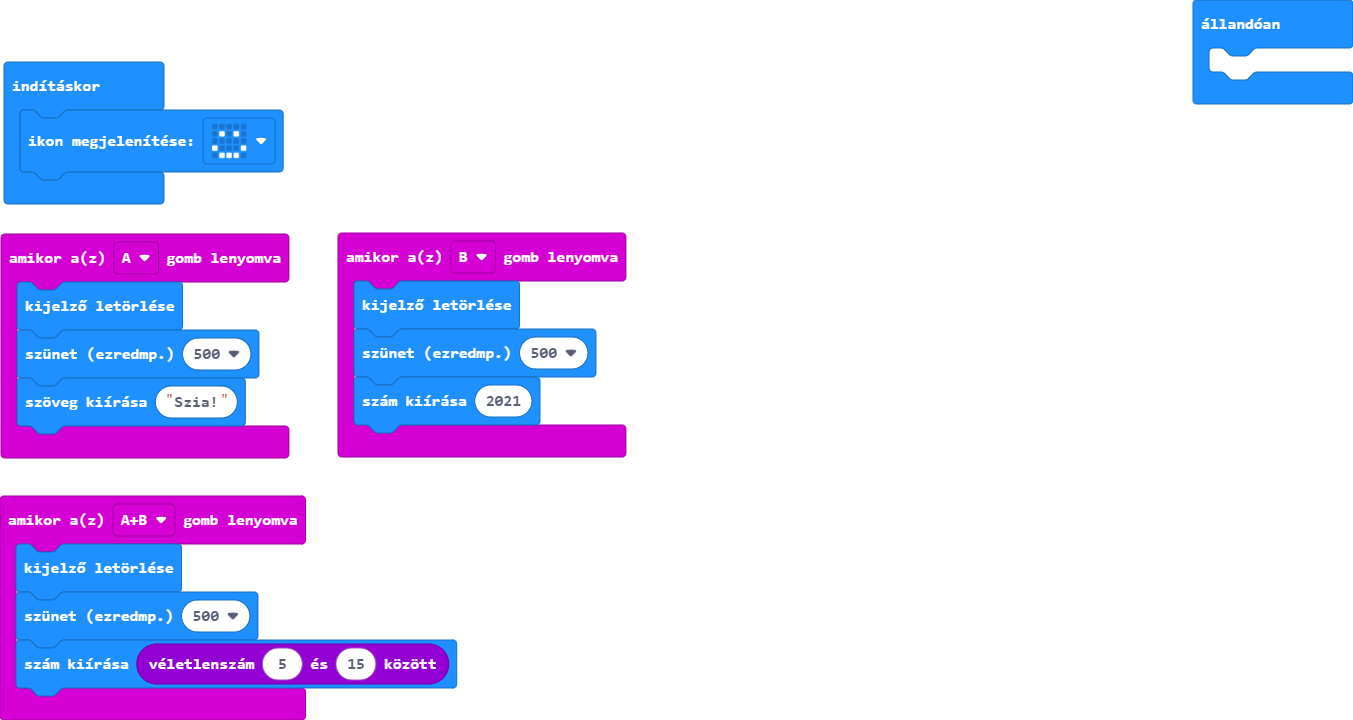
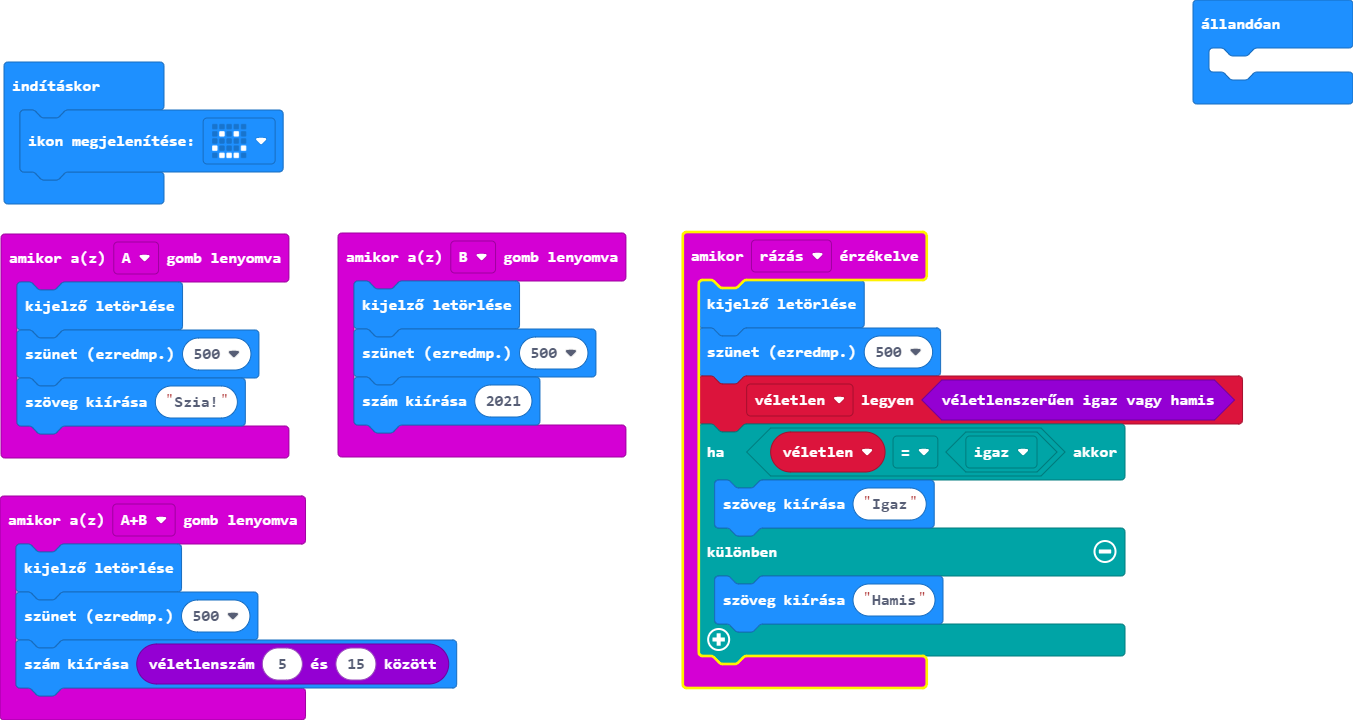
Lecke-04-08

Changed region(s): [[0.4967, 0.3056, 0.9313, 0.9778]]

diff --git a/main.ts b/main.ts
@@ -3,6 +3,16 @@ input.onButtonPressed(Button.A, function () {
     basic.pause(500)
     basic.showString("Szia!")
 })
+input.onGesture(Gesture.Shake, function () {
+    basic.clearScreen()
+    basic.pause(500)
+    véletlen = Math.randomBoolean()
+    if (véletlen == true) {
+        basic.showString("Igaz")
+    } else {
+        basic.showString("Hamis")
+    }
+})
 input.onButtonPressed(Button.AB, function () {
     basic.clearScreen()
     basic.pause(500)
@@ -13,6 +23,7 @@ input.onButtonPressed(Button.B, function () {
     basic.pause(500)
     basic.showNumber(2021)
 })
+let véletlen = false
 basic.showIcon(IconNames.Happy)
 basic.forever(function () {
 	
